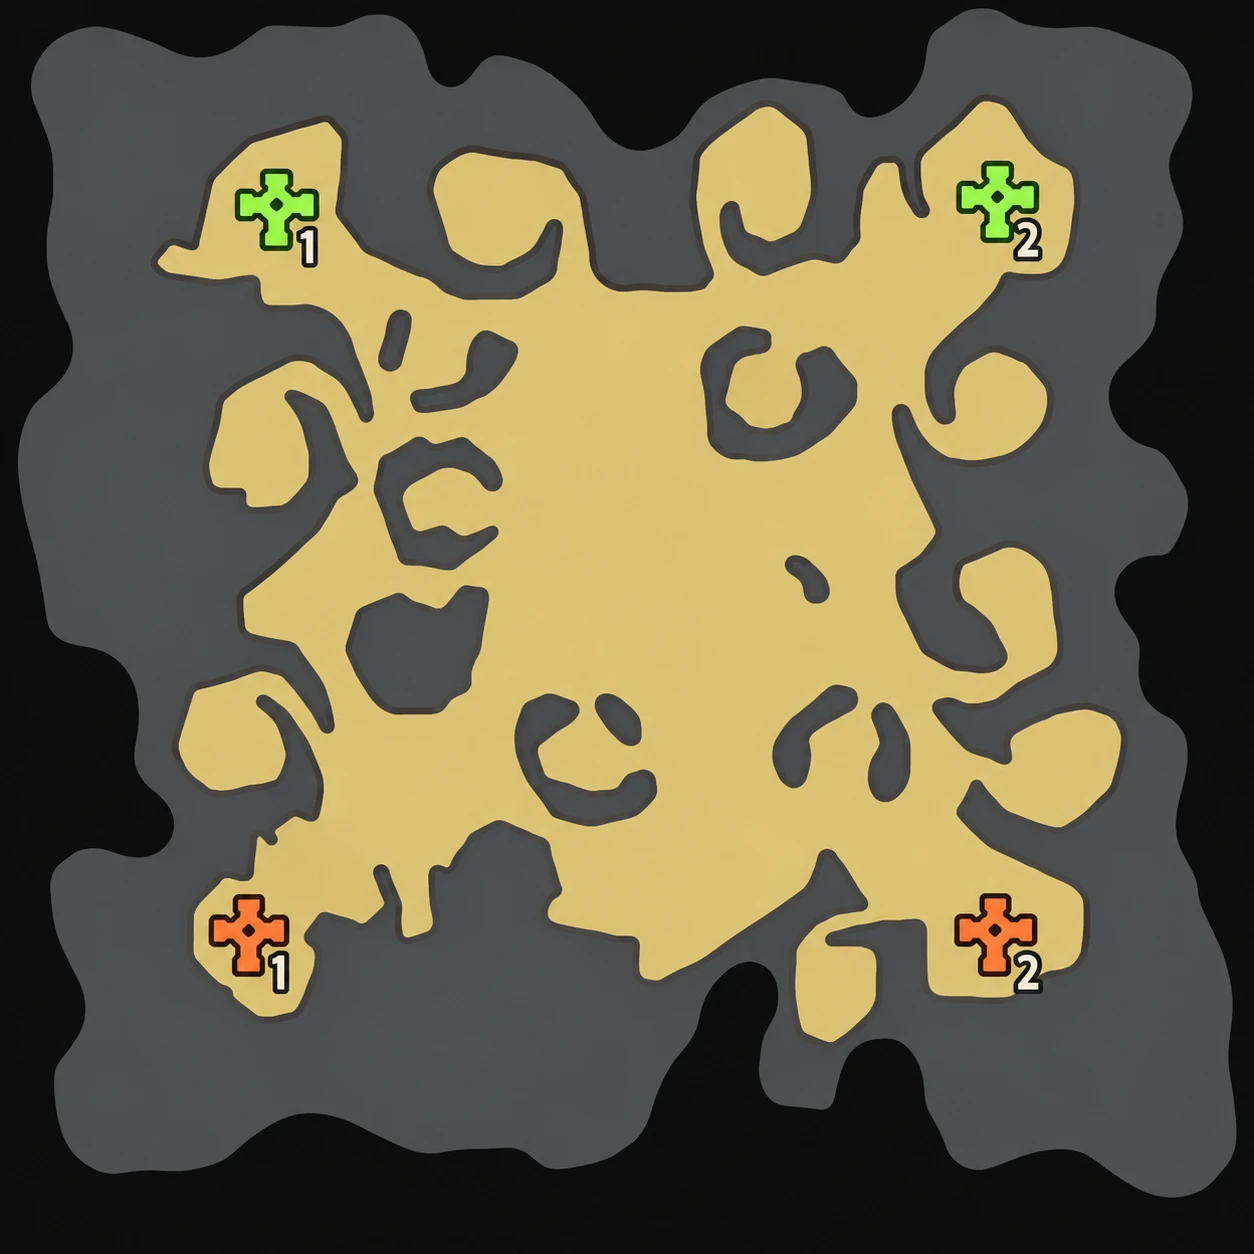
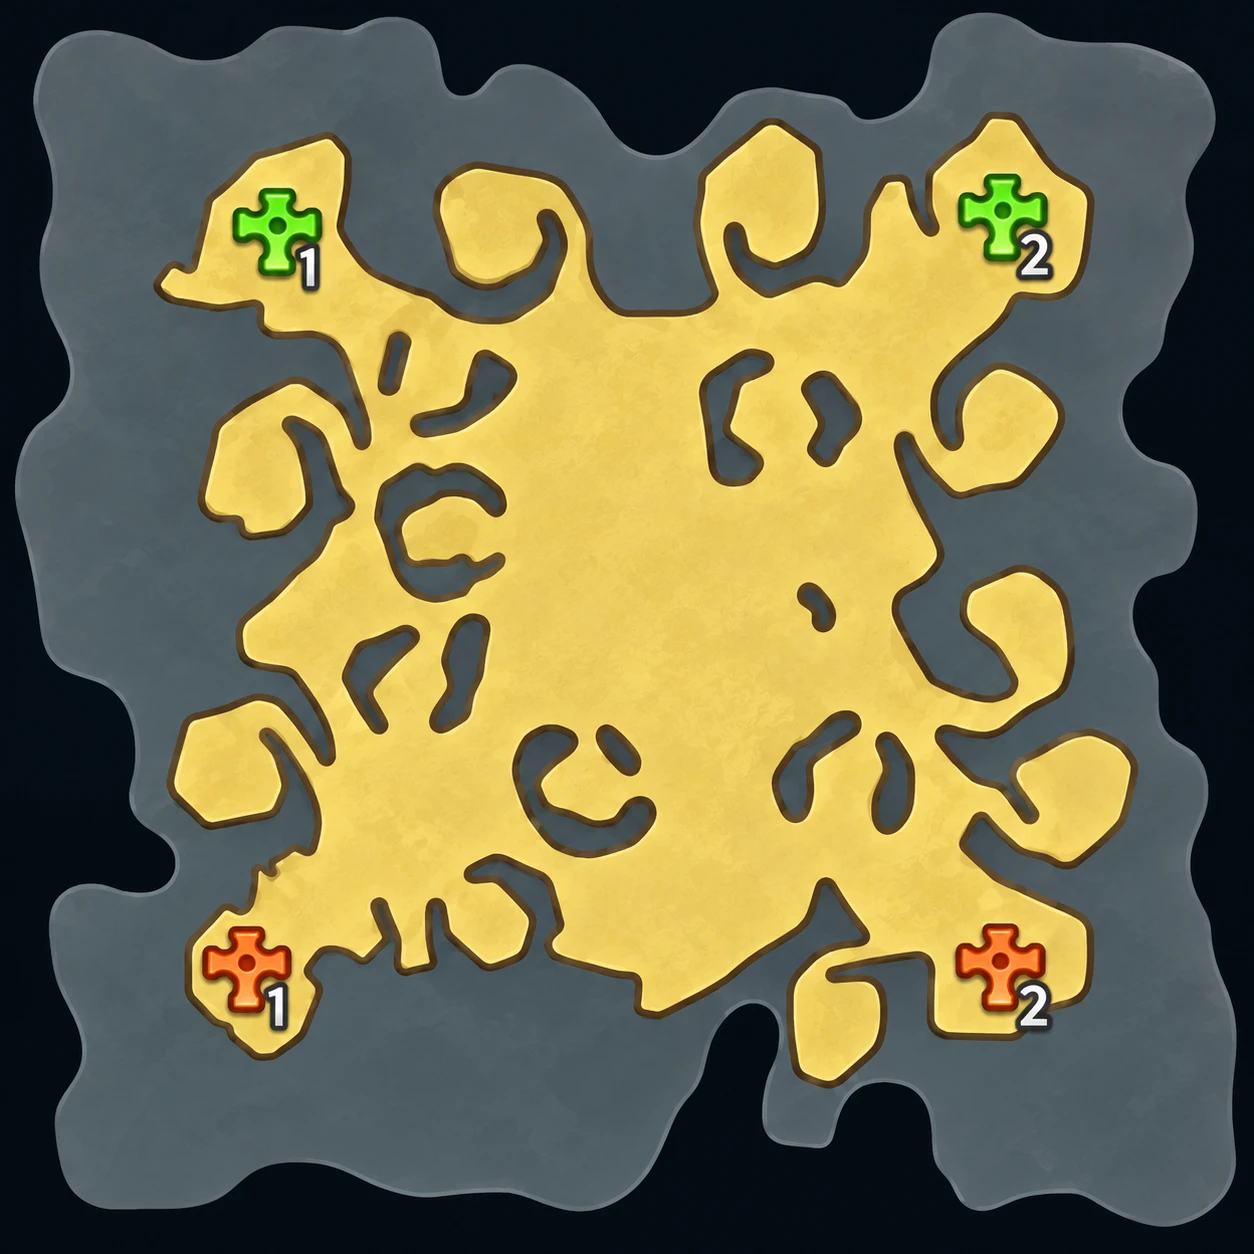
update

diff --git a/public/valeofclash/index.html b/public/valeofclash/index.html
@@ -39,7 +39,7 @@
       <section class="center" aria-label="Mapa tático">
         <div class="board-head"><h1>Planejamento da partida</h1><div class="segmented" role="tablist" aria-label="Campo"><button class="active" data-field="main" role="tab" aria-selected="true">Campo principal</button><button data-field="secondary" role="tab" aria-selected="false">Campo secundário</button></div><div class="zoom-controls"><button class="btn" id="undo" type="button" title="Desfazer (Ctrl+Z)" aria-label="Desfazer">↶</button><button class="btn" id="redo" type="button" title="Refazer (Ctrl+Y)" aria-label="Refazer">↷</button><button class="btn" id="zoom-out" type="button" aria-label="Diminuir zoom">−</button><output id="zoom-level">100%</output><button class="btn" id="zoom-in" type="button" aria-label="Aumentar zoom">+</button></div></div>
         <div class="board-frame">
-          <div class="map-plane" id="map-plane" aria-hidden="true"><img id="map-image" src="mapa-vale-of-clash.webp" alt=""></div>
+          <div class="map-plane" id="map-plane" aria-hidden="true"><img id="map-image" src="mapa-vale-of-clash.webp?v=2" alt=""></div>
           <div class="map-badge" id="map-badge">Campo principal · mapa real</div>
           <input class="map-text-editor" id="text-editor" type="text" maxlength="60" spellcheck="false" autocomplete="off" aria-label="Texto no mapa" hidden>
           <svg id="board" viewBox="0 0 1000 1000" preserveAspectRatio="xMidYMid meet" role="img" aria-label="Mapa tático do Vale of Clash"></svg>
@@ -62,6 +62,6 @@
   <div class="hover-card" id="hover-card" role="tooltip" hidden></div>
   <div class="context-menu popover" id="popover" role="dialog" aria-label="Ações do plano" hidden></div>
   <!-- Troque o ?v= a cada atualização: o servidor guarda .js em cache por 30 dias. -->
-  <script src="app.js?v=2026-10-07.23" defer></script>
+  <script src="app.js?v=2026-10-07.24" defer></script>
 </body>
 </html>

diff --git a/public/valeofclash/app.js b/public/valeofclash/app.js
@@ -4,7 +4,7 @@
   const SVG_NS = 'http://www.w3.org/2000/svg';
   const WIDTH = 1000;
   const HEIGHT = 1000;
-  const DEFAULT_MAP = 'mapa-vale-of-clash.webp';
+  const DEFAULT_MAP = 'mapa-vale-of-clash.webp?v=2'; // troque o ?v= ao trocar a imagem (cache de 30 dias no servidor)
   const COLORS = ['#7ed7c2', '#f4b86e', '#b99add', '#f07d83', '#6fb3ff', '#b5e06a', '#ff8fd1', '#eef2f0'];
   const FALLBACK_COLOR = '#d6b978';
   const MAX_PARTIES = 8;
@@ -27,12 +27,12 @@
   };
   // Locais possíveis dos pilares, alinhados ao mapa a partir do vídeo do modo (1:01–1:20).
   const DEFAULT_PILLARS = [
-    ['S1', 'pillar-s', 502, 443],
-    ['A1', 'pillar-a', 349, 273], ['A2', 'pillar-a', 620, 308], ['A3', 'pillar-a', 672, 605],
-    ['A4', 'pillar-a', 386, 709], ['A5', 'pillar-a', 324, 522], ['A6', 'pillar-a', 350, 392],
-    ['B1', 'pillar-b', 387, 164], ['B2', 'pillar-b', 612, 142], ['B3', 'pillar-b', 790, 328],
-    ['B4', 'pillar-b', 810, 471], ['B5', 'pillar-b', 856, 608], ['B6', 'pillar-b', 657, 794],
-    ['B7', 'pillar-b', 459, 602], ['B8', 'pillar-b', 180, 592], ['B9', 'pillar-b', 211, 365]
+    ['S1', 'pillar-s', 504, 459],
+    ['A1', 'pillar-a', 350, 288], ['A2', 'pillar-a', 622, 322], ['A3', 'pillar-a', 674, 623],
+    ['A4', 'pillar-a', 387, 729], ['A5', 'pillar-a', 324, 541], ['A6', 'pillar-a', 351, 408],
+    ['B1', 'pillar-b', 389, 177], ['B2', 'pillar-b', 615, 153], ['B3', 'pillar-b', 793, 341],
+    ['B4', 'pillar-b', 813, 485], ['B5', 'pillar-b', 859, 624], ['B6', 'pillar-b', 659, 814],
+    ['B7', 'pillar-b', 460, 621], ['B8', 'pillar-b', 179, 613], ['B9', 'pillar-b', 211, 382]
   ];
   // Cada pilar paga: quebrar o selo + capturar a zona + segurar a zona (pago a cada 5 s durante "hold" segundos).
   // Valores editáveis no painel "Valores dos pilares"; o secundário usa os mesmos números como moral para o principal.
